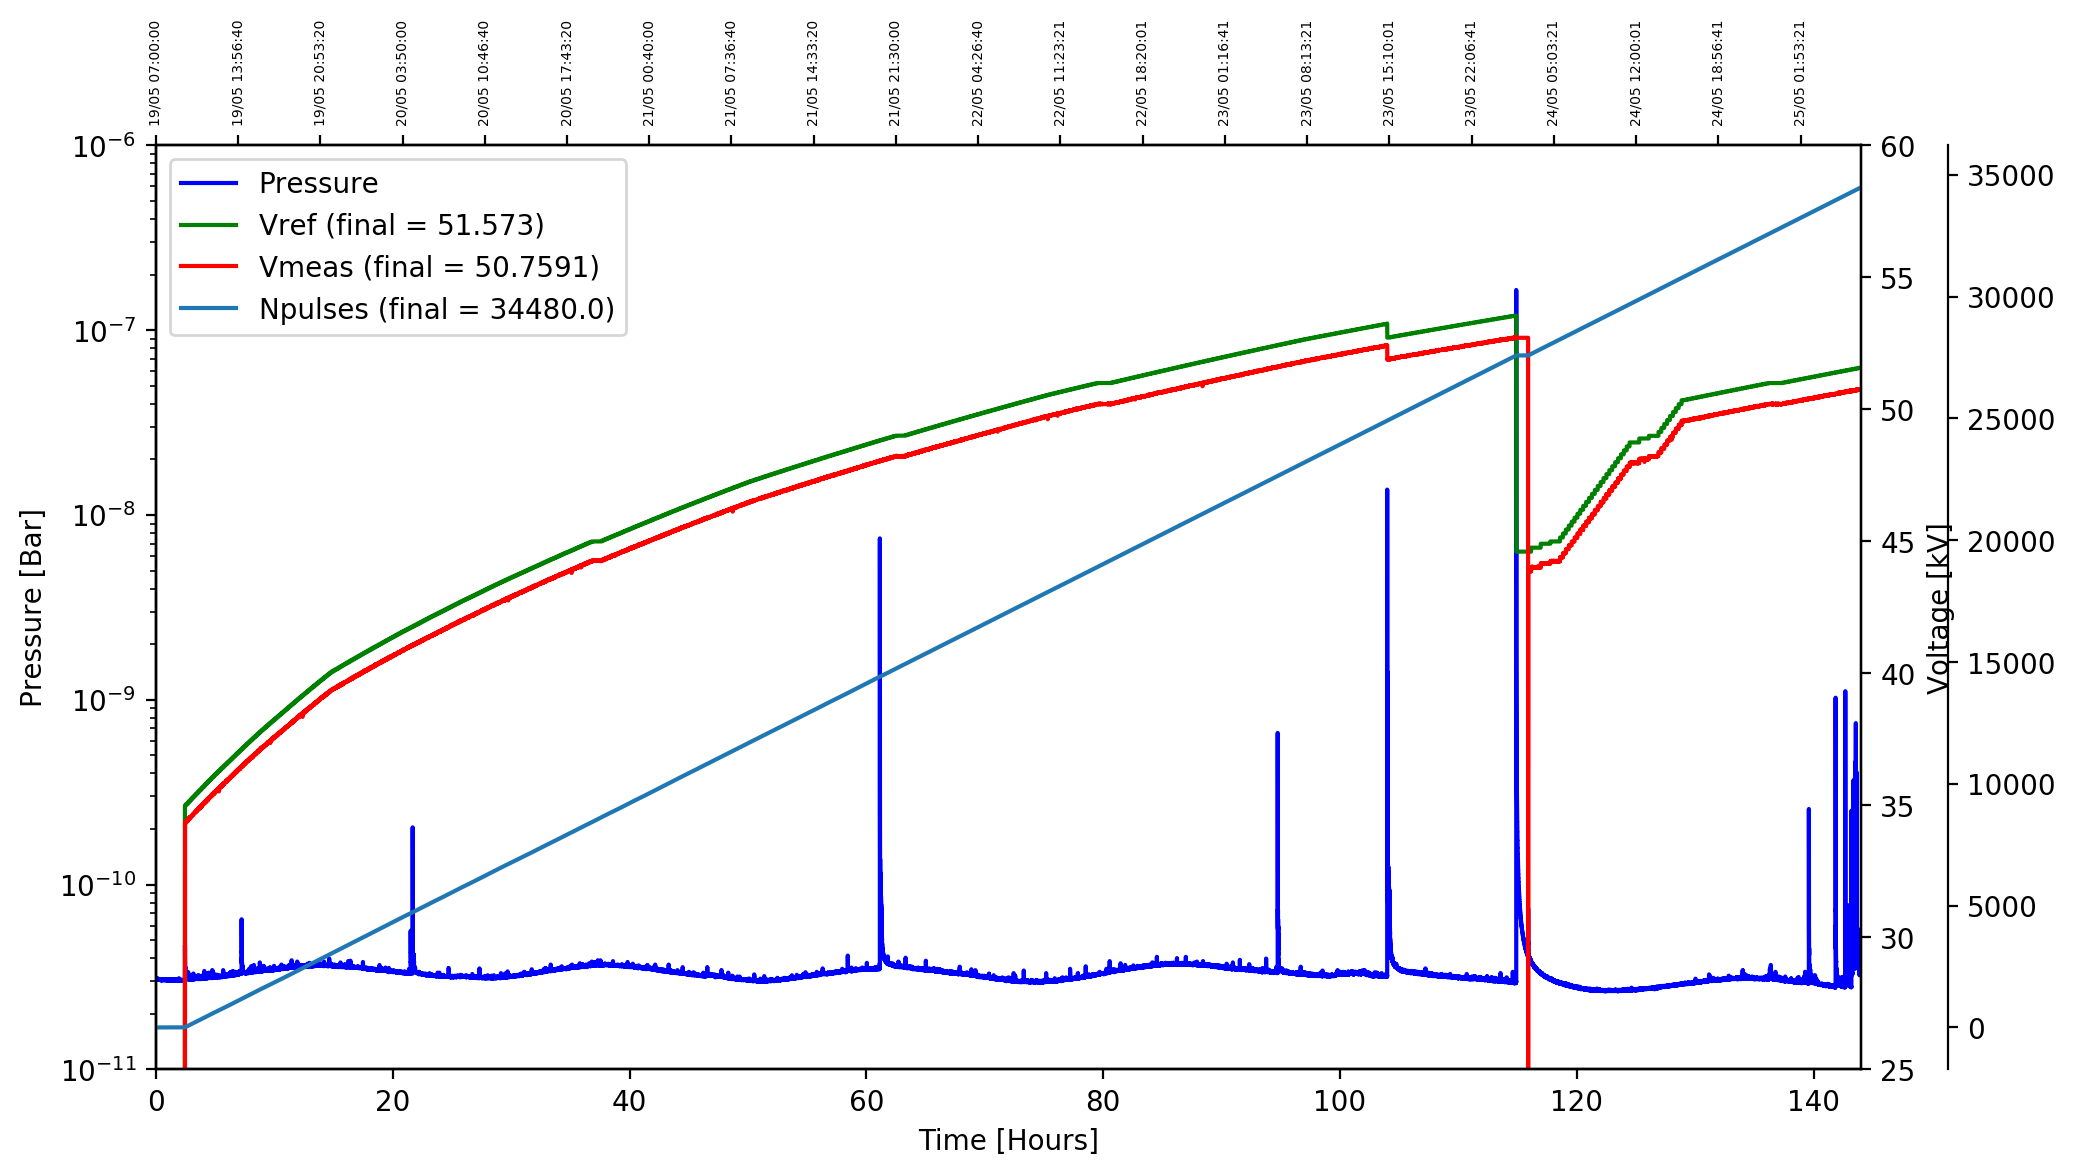
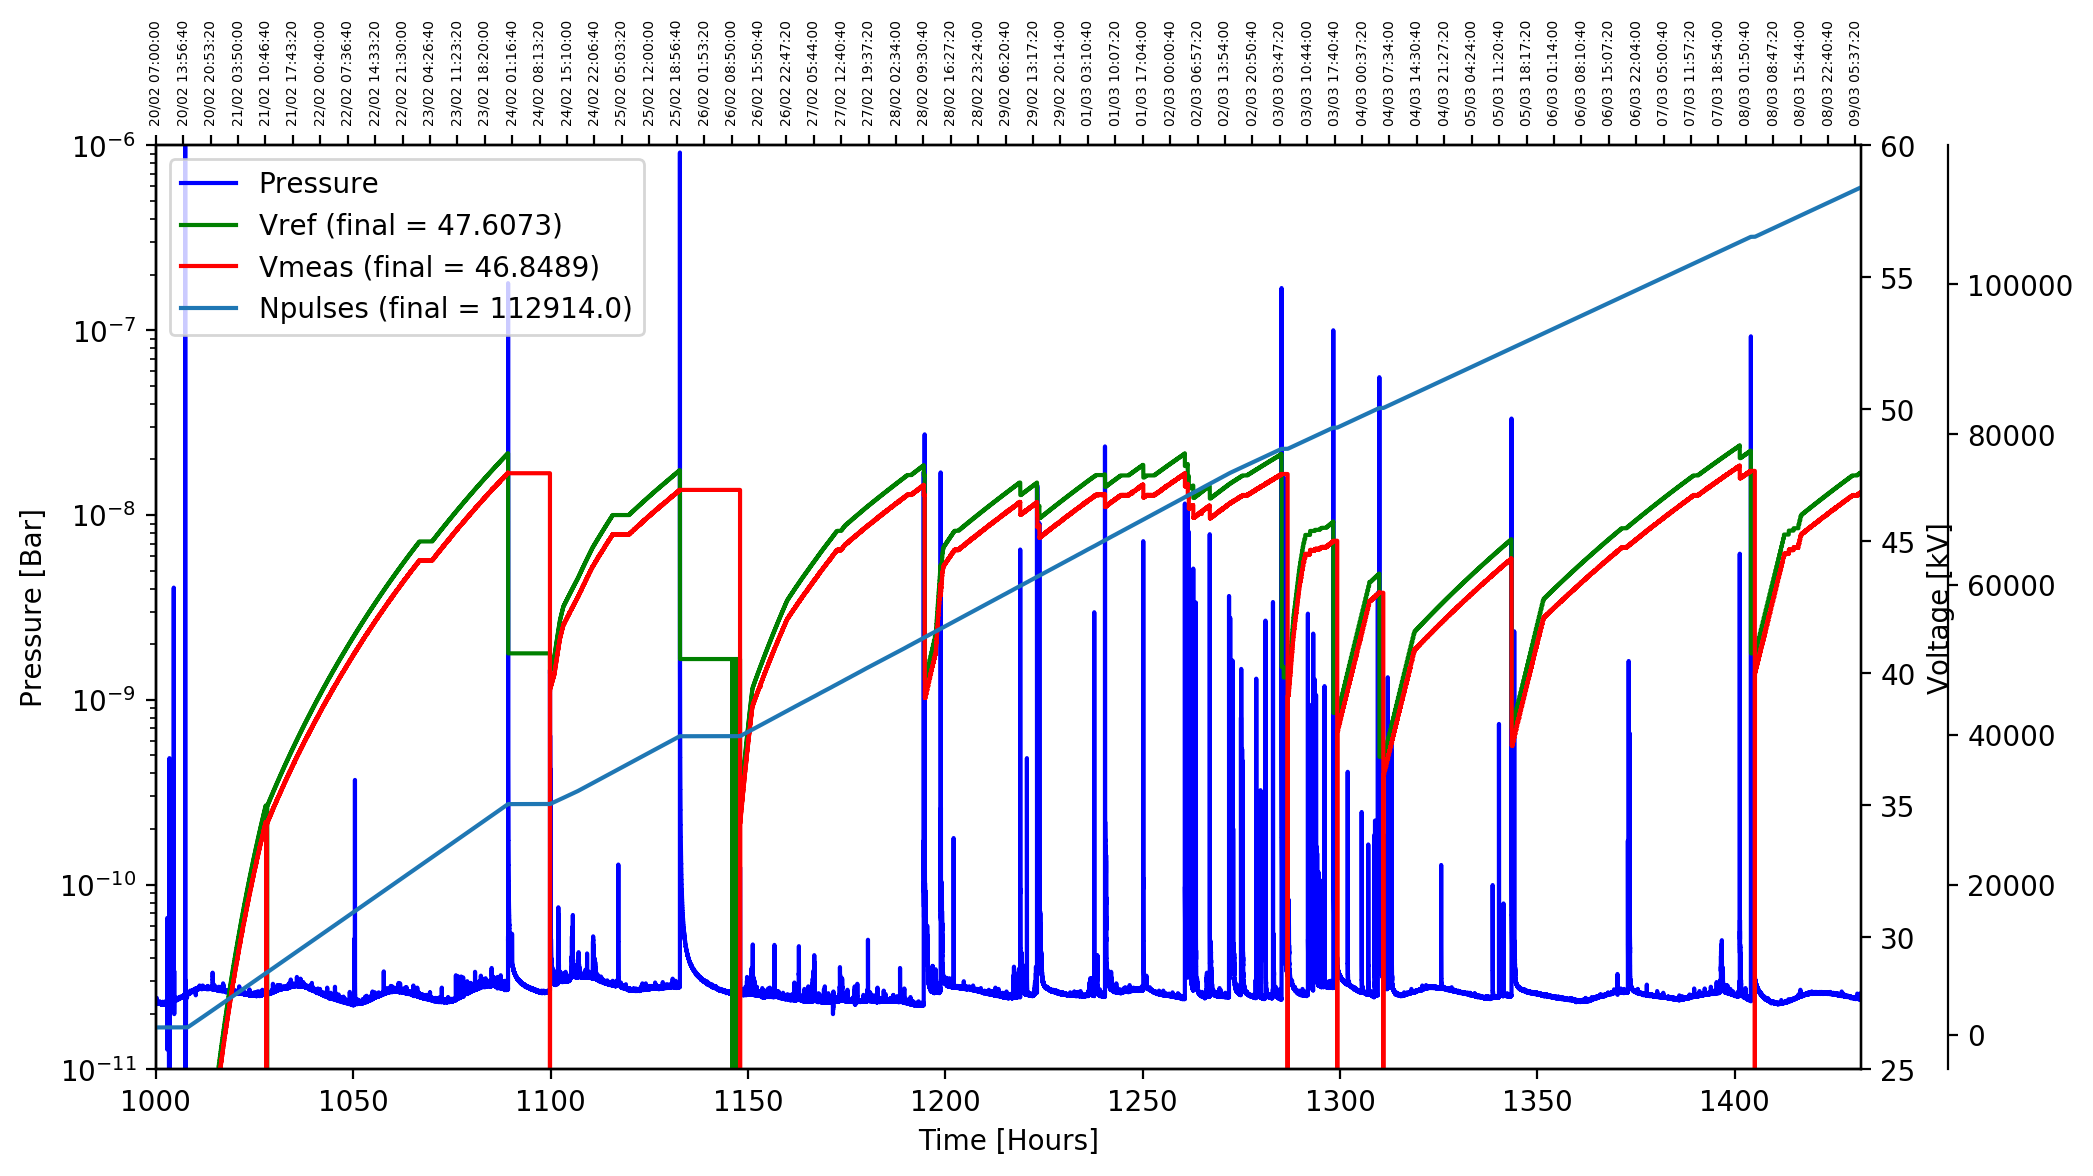
Error handling for having wrong file type in data directory. Added pulse and time offset variables

diff --git a/WinCC_data.py b/WinCC_data.py
@@ -4,7 +4,7 @@ from scipy.optimize import curve_fit
 from itertools import groupby
 from os import listdir
 from os.path import isfile, join
-
+#%matplotlib notebook
 print('*** Running Script ***')
 
 class winCCData():
@@ -28,8 +28,10 @@ class winCCData():
     def extractData(self):
         fileNames= [f for f in listdir(self.filePath) if isfile(join(self.filePath, f))] #find files in path
         for file in fileNames: #Iterate through found files
-            data=np.loadtxt(self.filePath + file,skiprows=1,dtype=np.unicode, unpack=True, encoding="utf16") #Load data - if there is an encoding issue, try 'utf8'
-            
+            try:
+                data=np.loadtxt(self.filePath + file,skiprows=1,dtype=np.unicode, unpack=True, encoding="utf16") #Load data - if there is an encoding issue, try 'utf8'
+            except:
+                print('There was an encoding error - probably because there are other files than the WinCC data in the directory. \nIf the WinCC data has been saved correctly, this is not a problem')
             #Initialize temporary variables
             timeStamps = []
             timeStampsShort = []
@@ -74,8 +76,10 @@ class winCCData():
         print('Counter curve unfolded')
         
     
-    def getDemandedDates(self,timeStamp1,timeStamp2):
+    def getDemandedDates(self,timeStamp1,timeStamp2,pulseCounterOffset,totalTimeOffsetHours):
         #Filters out data for the requested dates
+        self.totalTimeOffset = totalTimeOffsetHours
+        self.pulseCounterOffset = pulseCounterOffset
         self.t1 = timeStamp1
         self.t2 = timeStamp2
         ind1 = [i for i, s in enumerate(self.timeStamps) if self.t1 in s][0]
@@ -85,9 +89,9 @@ class winCCData():
         self.vacuumPlot = self.vacuum[ind1:ind2]
         self.VrefPlot = self.Vref[ind1:ind2]
         self.VmeasPlot = self.Vmeas[ind1:ind2]
-        self.NpulsesPlot = self.Npulses[ind1:ind2]
+        self.NpulsesPlot = self.Npulses[ind1:ind2] + pulseCounterOffset
         self.pulseLengthPlot = self.pulseLength[ind1:ind2]
-        self.timeHoursPlot = np.divide(self.timeSecondsPlot,3600)
+        self.timeHoursPlot = np.divide(self.timeSecondsPlot,3600) + totalTimeOffsetHours
         self.VrefFinal = np.round(self.VrefPlot[-1],4)
         self.VmeasFinal = np.round(self.VmeasPlot[-1],4)
         self.NpulsesFinal = self.NpulsesPlot[-1]
@@ -117,7 +121,8 @@ class winCCData():
         plt.xlim([np.min(self.timeHoursPlot),np.max(self.timeHoursPlot)])
         plt.savefig(Plotfilename, bbox_inches='tight', dpi=200)
         print('Plot Saved As: ',Plotfilename)
-        print('Total pulse count = ',self.NpulsesFinal) # last element of list
+        print('Total pulse count = ',self.NpulsesFinal, 'using an offset of ', str(self.pulseCounterOffset), ' pulses') # last element of list
+        print('Total run time = ', self.timeHoursPlot[-1], 'hours, using an offset of ', str(self.totalTimeOffset), ' hours')
         print('Last demanded voltage = ',self.VrefFinal,' kV') # last element of list
         print('Last measured voltage = ',self.VmeasFinal,' kV') # last element of list
         
@@ -145,8 +150,10 @@ class winCCData():
         
         
         # Prep all the text output to save:
+        out0 = 'Weak spark limit: ' + str(weakSparkLimit) + ', Strong spark limit: ' + str(strongSparkLimit) + '\n'
         out1 = 'Number of strong sparks: ' + str(numberStrongSparks) + '\n'
         out2 = 'Number of weak sparks: ' + str(numberWeakSparks) + '\n'
+        out21 = 'Run time: ' + str(self.timeHoursPlot[-1]) + ' hours\nTotal number of pulses: ' + str(self.NpulsesFinal) + '\n'
         out3 = '\n --------- Strong sparks: --------- \n'
         for i in range(0,numberStrongSparks):
             out3 = out3 + 'Timestamp: ' + str(self.timeStamps[strongSparkIndices[i]]) + ', pressure: ' + str(np.format_float_scientific(self.vacuum[strongSparkIndices[i]])) + '\n'
@@ -154,31 +161,40 @@ class winCCData():
         for i in range(0,numberWeakSparks):
             out4 = out4 + 'Timestamp: ' + str(self.timeStamps[weakSparkIndices[i]]) + ', pressure: ' + str(np.format_float_scientific(self.vacuum[weakSparkIndices[i]])) + '\n'
         
-        out = out1 + out2 + out3 + out4
+        out = out0 + out1 + out2 + out21 + out3 + out4
         
         #Print and write to file:
         print(out)
-        file = open('sparks.txt','w')
+        file = open(self.filePath + 'sparks.txt','w')
         file.write(out)
+        print('Spark data saved in ' + str(self.filePath) + '/sparks.txt')
         
 def exponential_func(x, a, b, c):
     return a*np.exp(-b*x)+c
 
 
 
-###################### Plot winCC data: ######################
+###################### Plot winCC data #######################
+######################## USER INPUTS: ########################
+
 # File path of exported winCC data (has to be tab delimited .csv!)
-winccPath = r"\\cern.ch\dfs\Departments\TE\Groups\ABT\Users\B\BJORKQVIST_Oskar\winCC export\Export conditioning MKI cool post covid/"
-#Time stamps (be mindful that the data set needs to contain the selected time stamps)
-timeStamp1 = '19/05/2020 07:00:00' #Start timestamp, must have format '20/02/2020 11:08:14'
-timeStamp2 = '25/05/2020 06:59:00' #End timestamp, must have format '20/02/2020 11:08:14'
+# The files will be read in alphabetical order so it is important that they are named correctly
+# Previously we have used the convention: 2020-05-19_2020-05-22.csv etc.
+winccPath = r"\\cern.ch\dfs\Departments\TE\Groups\ABT\Users\B\BJORKQVIST_Oskar\winCC export\Export conditioning MKI cool pre covid/"
+# Time stamps (be mindful that the data set needs to contain the selected time stamps):
+timeStamp1 = '20/02/2020 07:00:00' #Start timestamp, must have format '20/02/2020 11:08:14'
+timeStamp2 = '09/03/2020 06:59:00' #End timestamp, must have format '20/02/2020 11:08:14'
 Plotfilename = 'WinCC_Plot_20022020-18032020.png' # Name of plot export
-winCC = winCCData(winccPath)        
-winCC.getDemandedDates(timeStamp1,timeStamp2)
-winCC.findSparks()
 dateTickEveryNseconds = 50000      #Plot a date tick every 0.5*N seconds
-vacuumMin = 1e-11
-vacuumMax = 1e-6
+vacuumMin = 1e-11 #Vacuum lower limit for plot
+vacuumMax = 1e-6  #Vacuum upper limit for plot
+pulseCounterOffset =  1000 # If the user wants to manually add pulses to the pulse counter
+totalTimeOffsetHours = 1000 #If the user wants to manually add time (in hours) to the time counter
+
+# Run the class file that fetches and plots the data:
+winCC = winCCData(winccPath)        
+winCC.getDemandedDates(timeStamp1,timeStamp2,pulseCounterOffset,totalTimeOffsetHours)
+winCC.findSparks()
 winCC.plotwinCCdata(dateTickEveryNseconds,vacuumMin,vacuumMax,Plotfilename)
 print('*** Done ***')
 #      winCC.vacuumExpFit()
